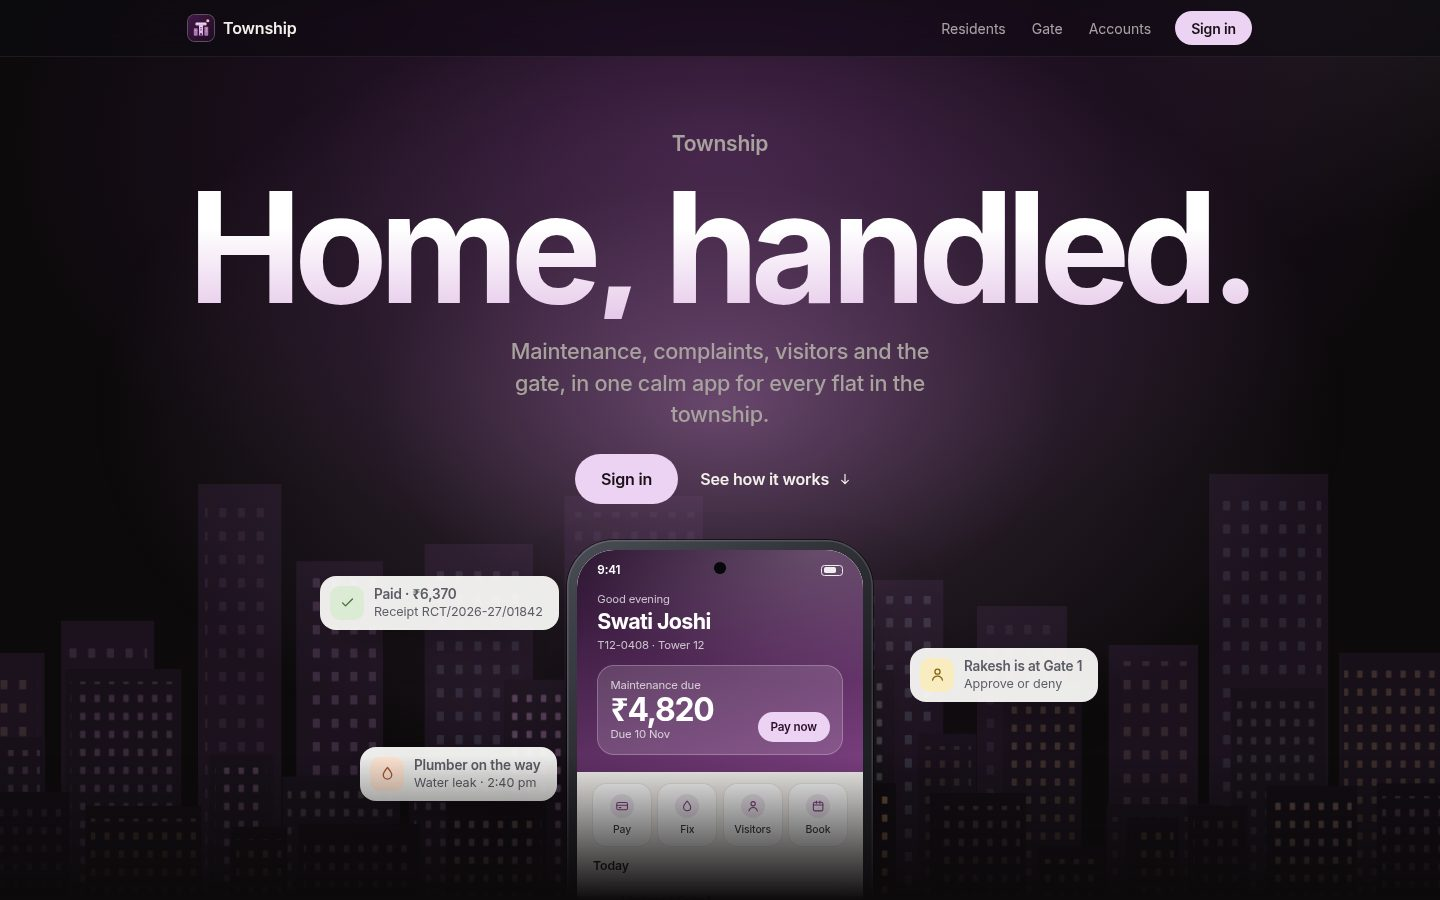
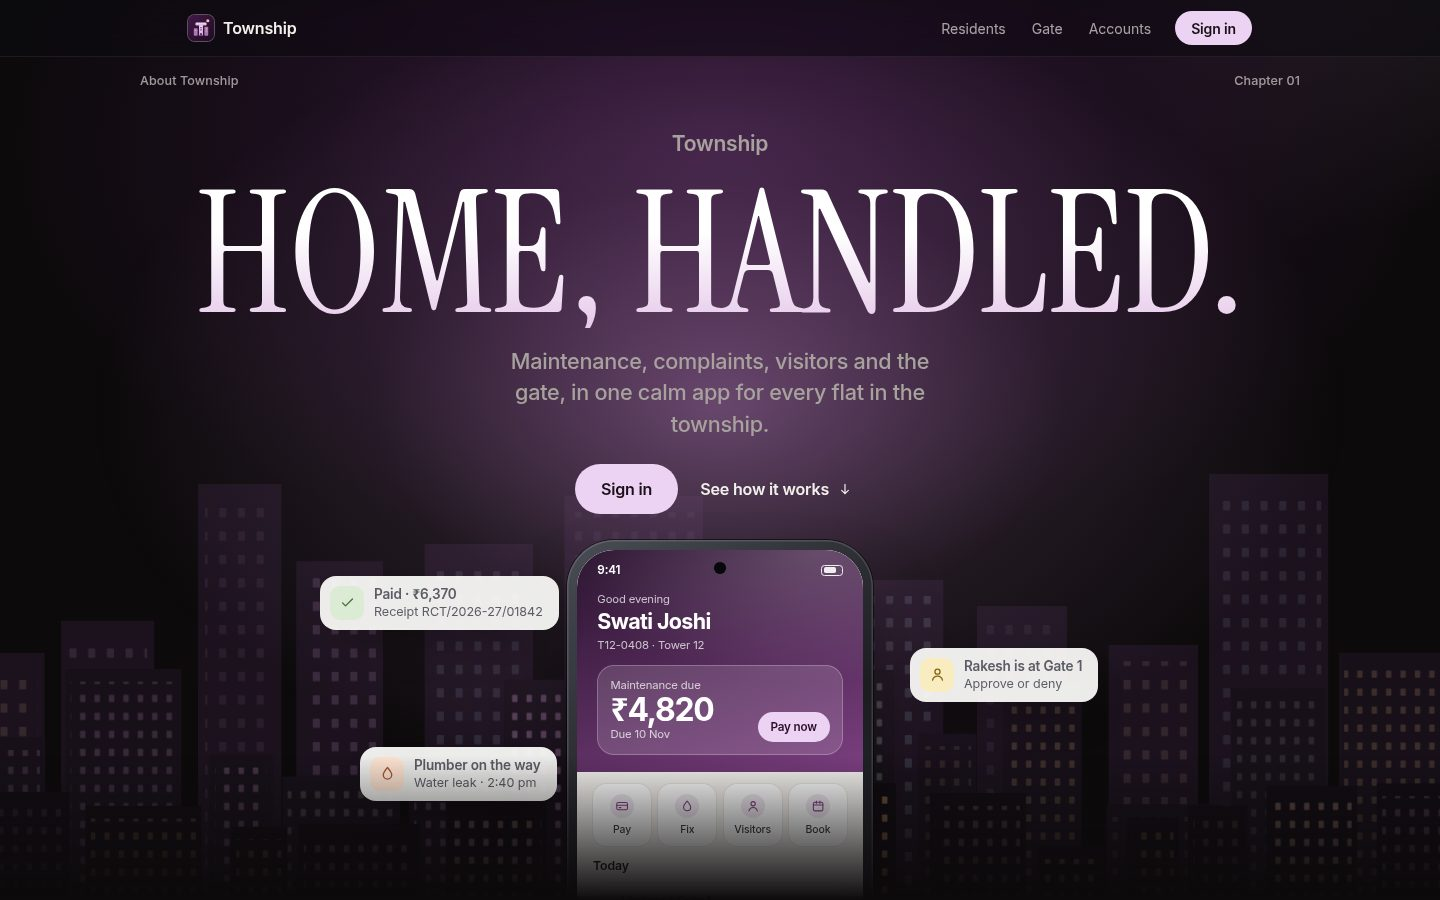
Front page in seven chapters
Inspired by grail-app.com's chapter structure, with Township's own content:
- Each section is a chapter with its own colour (night, lilac, paper,
  espresso, night, butter, black), labelled "About …" and "Chapter 0n" in
  its top corners.
- Chapters arrive over the last one: a rounded sheet that slides up with a
  slight tilt, or (into the numbers) through a circle that opens.
- Headlines in tall serif capitals (Instrument Serif, OFL, bundled so the
  Content Security Policy still allows no third-party requests); giant
  faded figures drift behind the turning phone (₹13,004) and the stats
  (2,400); the ledger paragraph is set in serif.
- A sticky pill with Sign in and Install appears once the hero is gone.
- Feature steps finish animating before the scroll settles, so no line is
  left half-way; the top bar turns light over the lilac chapter.

diff --git a/web/src/landing/landing.css b/web/src/landing/landing.css
@@ -331,3 +331,77 @@
 .lp-nav.on-light .lp-install > button { color: var(--lp-ink); box-shadow: inset 0 0 0 1px var(--lp-line); }
 .lp-nav-in > .lp-btn { white-space: nowrap; }
 @media (max-width: 767px) { .lp-nav-in > .lp-install { margin-left: auto; } .lp-nav-in > .lp-install + .lp-btn { margin-left: 0; } }
+
+/* ==== Chapters ====================================================================
+ * Each section is a chapter with its own colour, labelled in its top corners, and
+ * most arrive over the last one: as a rounded sheet (sliding up with a tilt) or
+ * through an opening circle. Headlines are tall serif capitals; giant faded type
+ * sits behind some chapters. The flow comes from the shared type, the labels and
+ * the sticky pill, so each chapter can look different. */
+.lp {
+  --lp-serif: 'Instrument Serif', 'Iowan Old Style', 'Times New Roman', serif;
+  --ch-lilac: #e9c9f0; --ch-paper: #f7f5f0; --ch-espresso: #2a1d16; --ch-butter: #f1e2b5;
+  --ch-radius: 32px;
+}
+.lp-display, .lp-h, .lp-h2 { font-family: var(--lp-serif); font-weight: 400; text-transform: uppercase; letter-spacing: -0.005em; }
+.lp-display { font-size: clamp(64px, min(12.5vw, 19svh), 196px); line-height: 0.86; }
+.lp-h { font-size: clamp(50px, 7.4vw, 124px); line-height: 0.88; }
+.lp-h2 { font-size: clamp(42px, 5.4vw, 86px); line-height: 0.9; }
+.sw { padding-top: 0.06em; }
+
+.lp-chapter { position: absolute; z-index: 6; top: calc(56px + 16px); left: max(var(--lp-gutter), calc(50% - 580px)); right: max(var(--lp-gutter), calc(50% - 580px)); display: flex; justify-content: space-between; font-size: 12.5px; font-weight: 500; letter-spacing: 0.01em; opacity: 0.62; pointer-events: none; }
+.lp-bigtype { position: absolute; inset: 0; z-index: 0; display: grid; place-items: center; white-space: nowrap; pointer-events: none; font-family: var(--lp-serif); line-height: 0.8; letter-spacing: -0.02em; }
+
+/* 02 · The app: lilac, with the amount due drifting behind the phone */
+.lp-spin { background: var(--ch-lilac); color: var(--lp-ink); }
+.lp-spin::after { display: none; }
+.lp-spin-glow { background: radial-gradient(closest-side, rgba(255, 255, 255, 0.75), rgba(255, 255, 255, 0.18) 60%, transparent); }
+.lp-spin-head .lp-eyebrow { color: #7b3f80; }
+.lp-spin-big { font-size: clamp(160px, 27vw, 440px); color: rgba(123, 63, 128, 0.13); }
+.lp-spin-device { z-index: 1; }
+.lp-cap span { color: #5b4a5e; }
+
+/* 03 · Every day: a white sheet over the lilac */
+.lp-story { background: var(--ch-paper); border-radius: var(--ch-radius) var(--ch-radius) 0 0; margin-top: calc(var(--ch-radius) * -1); z-index: 2; }
+
+/* 04 · In numbers: espresso, opened through a circle */
+.lp-portal-wrap { background: var(--ch-paper); position: relative; z-index: 2; }
+.lp-numbers { position: relative; overflow: hidden; background: radial-gradient(80% 60% at 50% 0%, #3a281e, transparent 70%), var(--ch-espresso); color: #f3ead9; }
+.lp-numbers .lp-lead, .lp-numbers .lp-stat-l, .lp-numbers .lp-stat-v small { color: #c9b8a4; }
+.lp-numbers-big { font-size: clamp(220px, 34vw, 560px); color: rgba(243, 234, 217, 0.05); }
+.lp-numbers .lp-wrap { position: relative; z-index: 1; }
+.lp-stat-v { font-family: var(--lp-serif); font-weight: 400; font-size: clamp(76px, 9vw, 144px); letter-spacing: -0.02em; }
+.lp-numbers .lp-stat.c0 { border-top-color: #e7afe7; } .lp-numbers .lp-stat.c1 { border-top-color: #f7c8a8; } .lp-numbers .lp-stat.c2 { border-top-color: #f4d98a; }
+.lp-numbers .lp-stat.c3 { border-top-color: #b8dcae; } .lp-numbers .lp-stat.c4 { border-top-color: #bcd3f2; } .lp-numbers .lp-stat.c5 { border-top-color: #f3b8c4; }
+
+/* 05 · At the gate: a night sheet */
+.lp-gate { border-radius: var(--ch-radius) var(--ch-radius) 0 0; margin-top: calc(var(--ch-radius) * -1); z-index: 3; }
+
+/* 06 · Trust: a butter sheet, the ledger in serif */
+.lp-ledger { position: relative; z-index: 4; background: var(--ch-butter); color: var(--lp-ink); border-radius: var(--ch-radius) var(--ch-radius) 0 0; margin-top: calc(var(--ch-radius) * -1); padding-top: clamp(130px, 14vw, 190px); }
+.lp-ledger .lp-eyebrow { color: #7b3f80; }
+.lp-ledger-text { font-family: var(--lp-serif); font-weight: 400; font-size: clamp(38px, 5.2vw, 80px); line-height: 1.02; letter-spacing: -0.01em; max-width: 25ch; }
+.lp-ledger-foot div { border-top-color: rgba(24, 24, 27, 0.25) !important; }
+.lp-ledger-foot span { color: #6b5d3f; }
+
+/* 07 · Getting started: black, with the logo */
+.lp-closing { position: relative; z-index: 5; background: radial-gradient(70% 50% at 50% 0%, #2b1430, transparent 70%), #0c0a0b; color: var(--lp-inv); border-radius: var(--ch-radius) var(--ch-radius) 0 0; margin-top: calc(var(--ch-radius) * -1); }
+.lp-closing-logo { display: block; width: 84px; height: 84px; margin: 0 auto 30px; border-radius: 22px; box-shadow: 0 0 0 1px rgba(236, 210, 243, 0.3), 0 30px 60px -18px rgba(214, 150, 222, 0.55); }
+.lp-closing .lp-note { color: var(--lp-inv-2); }
+.lp-role { color: var(--fg); }
+.lp-role span { color: var(--muted); }
+.lp-closing .lp-foot { border-top-color: rgba(255, 255, 255, 0.1); color: var(--lp-inv-2); }
+.lp-closing .lp-foot a:hover { color: var(--lp-inv); }
+
+/* Sticky pill */
+.lp-sticky { position: fixed; left: 50%; bottom: calc(18px + env(safe-area-inset-bottom)); z-index: 55; display: flex; align-items: center; gap: 8px; padding: 6px; border-radius: 999px; background: rgba(250, 250, 248, 0.94); backdrop-filter: blur(14px); -webkit-backdrop-filter: blur(14px); box-shadow: 0 14px 34px -12px rgba(0, 0, 0, 0.4), 0 0 0 1px rgba(0, 0, 0, 0.06); transform: translate(-50%, 160%); opacity: 0; transition: transform 0.55s var(--lp-ease), opacity 0.3s; }
+.lp-sticky.show { transform: translate(-50%, 0); opacity: 1; }
+.lp-sticky img { width: 30px; height: 30px; border-radius: 9px; margin-left: 2px; }
+.lp-sticky .install-btn.icon > button { background: rgba(24, 24, 27, 0.07); color: #18181b; width: 34px; height: 34px; }
+.lp-sticky .install-pop { top: auto; bottom: calc(100% + 10px); }
+@media (prefers-reduced-motion: reduce) { .lp-sticky { transition: opacity 0.2s; } }
+
+.lp-story .lp-h2 { font-size: clamp(40px, 4.4vw, 74px); }
+.lp-story.is-animated .lp-steps { min-height: 400px; }
+.lp-step .lp-h2 { margin-bottom: 10px; }
+@media (max-width: 767px) { .lp-story.is-animated .lp-steps { min-height: 260px; } .lp-story .lp-h2 { font-size: clamp(32px, 9vw, 44px); } .lp-chapter { top: calc(56px + 10px); font-size: 11px; } }

diff --git a/docs/tdd/TDD.html b/docs/tdd/TDD.html
@@ -214,7 +214,7 @@ flowchart TD
 <figure><img src="img/desk-matching.jpg" alt="" style="max-width:62%"><figcaption>A credit whose narration names T10-1707 while its UPI ID is registered to T09-1802. Two strong signals disagree, so it is queued with both flats and their evidence instead of being posted.</figcaption></figure>
 
 <h2>7. UI and design</h2>
-<p>The brief asks for minimal design and every action within two taps. Warm neutrals with one lilac accent for the next action; six soft tints only to tell categories, people and amenities apart; light and dark themes; loading, empty and error states from shared components. Small interactions carry meaning: the dues card opens into what makes up the amount, a tapped month in Bills shows its sum, a waiting visitor pulses on the timeline, and guest codes count down. Animations stop when the phone asks for reduced motion. The logo is a T made from a tower between two shorter ones; the front page (<code>/welcome</code>) is built with GSAP and loads on its own, so the app screens carry none of it. The desk is denser, for a working day, and the committee report leads with the brief's three targets.</p>
+<p>The brief asks for minimal design and every action within two taps. Warm neutrals with one lilac accent for the next action; six soft tints only to tell categories, people and amenities apart; light and dark themes; loading, empty and error states from shared components. Small interactions carry meaning: the dues card opens into what makes up the amount, a tapped month in Bills shows its sum, a waiting visitor pulses on the timeline, and guest codes count down. Animations stop when the phone asks for reduced motion. The logo is a T made from a tower between two shorter ones; the front page (<code>/welcome</code>) tells the product in seven chapters, each with its own colour, that arrive as sheets or through an opening circle; it is built with GSAP and loads on its own, so the app screens carry none of it. The desk is denser, for a working day, and the committee report leads with the brief's three targets.</p>
 <div class="two">
   <figure><img src="img/res-home.jpg" alt=""><figcaption>Resident home: dues first, with the overdue days and interest stated; complaints and visitors one tap away.</figcaption></figure>
   <figure><img src="img/gate.jpg" alt=""><figcaption>Gate tablet with the network down: very large buttons, a dark screen for night, "Offline · saved on tablet", language switch, and the DPDP notice to visitors.</figcaption></figure>

diff --git a/web/src/landing/sections/Story.jsx b/web/src/landing/sections/Story.jsx
@@ -3,6 +3,7 @@ import { gsap, prefersReducedMotion } from '../motion/gsap.js';
 import { useScene } from '../motion/useScene.js';
 import { Phone } from '../components/Devices.jsx';
 import { PayScreen, FixScreen, VisitorScreen, BookScreen } from '../components/screens.jsx';
+import Chapter from '../components/Chapter.jsx';
 
 const STEPS = [
   { tab: 'Pay', title: 'Dues, paid\nbefore dinner.', body: 'See exactly what is owed and why, pay by UPI or card, and keep every receipt in one place. Interest is shown, never hidden.', Screen: PayScreen, glow: '#d58fdf' },
@@ -45,8 +46,9 @@ export default function Story() {
     tl.addLabel('s0', 0);
     for (let i = 1; i < n; i++) {
       tl.to(steps[i - 1], { autoAlpha: 0, y: -36, duration: 0.4 }, i - 0.55)
-        .fromTo(steps[i], { autoAlpha: 0, y: 36 }, { autoAlpha: 1, y: 0, duration: 0.45 }, i - 0.35)
-        .from(steps[i].querySelectorAll('.lp-eyebrow, .lp-line, .lp-lead'), { yPercent: 60, duration: 0.45, stagger: 0.05 }, i - 0.35)
+        // Everything lands before the step's label, so a settled scroll never leaves a line half-way.
+        .fromTo(steps[i], { autoAlpha: 0, y: 36 }, { autoAlpha: 1, y: 0, duration: 0.38 }, i - 0.45)
+        .fromTo(steps[i].querySelectorAll('.lp-eyebrow, .lp-line, .lp-lead'), { yPercent: 60 }, { yPercent: 0, duration: 0.32, stagger: 0.03 }, i - 0.45)
         .to(screens[i - 1], { autoAlpha: 0, scale: 0.94, duration: 0.4 }, i - 0.55)
         .fromTo(screens[i], { autoAlpha: 0, scale: 1.06 }, { autoAlpha: 1, scale: 1, duration: 0.45 }, i - 0.4)
         .to(phone, { rotateY: i % 2 ? -14 : 14, rotateX: 4, duration: 0.3, ease: 'sine.inOut' }, i - 0.55)
@@ -72,6 +74,7 @@ export default function Story() {
 
   return (
     <section className="lp-story" data-nav="light" ref={ref} style={{ '--lp-glow': STEPS[0].glow }} aria-label="What residents can do">
+      <Chapter about="every day" n={3} />
       <div className="lp-story-in">
         <div className="lp-story-stage" aria-hidden="true">
           <div className="lp-story-glow" />

diff --git a/web/src/landing/sections/Spin.jsx b/web/src/landing/sections/Spin.jsx
@@ -6,6 +6,7 @@ import SplitWords from '../components/SplitWords.jsx';
 import ImageSequence from '../components/ImageSequence.jsx';
 import { usePhoneSequence } from '../frames/usePhoneSequence.js';
 import { SEQ_HEIGHT, SEQ_WIDTH } from '../frames/phoneSequence.js';
+import Chapter from '../components/Chapter.jsx';
 
 const CAPTIONS = [
   ['Two taps to pay.', 'UPI or card, with a numbered receipt the moment it clears.'],
@@ -32,7 +33,8 @@ export default function Spin() {
       // of its way before they meet.
       .fromTo(q('.lp-spin-device'), { scale: 0.72, yPercent: 34 }, { scale: 1, yPercent: 0, duration: 2.6, ease: 'power2.inOut' }, 0)
       .to(q('.lp-spin-head'), { autoAlpha: 0, y: -90, scale: 0.94, duration: 1.3, ease: 'power2.in' }, 0.2)
-      .fromTo(q('.lp-spin-glow'), { scale: 0.7, opacity: 0.5 }, { scale: 1.35, opacity: 1, duration: 10, ease: 'none' }, 0);
+      .fromTo(q('.lp-spin-glow'), { scale: 0.7, opacity: 0.5 }, { scale: 1.35, opacity: 1, duration: 10, ease: 'none' }, 0)
+      .fromTo(q('.lp-spin-big'), { xPercent: 12 }, { xPercent: -12, duration: 10, ease: 'none' }, 0);
     q('.lp-cap').forEach((c, i) => {
       const at = 1.8 + i * 2.7;
       tl.fromTo(c, { autoAlpha: 0, y: 40 }, { autoAlpha: 1, y: 0, duration: 0.7 }, at)
@@ -42,8 +44,10 @@ export default function Spin() {
   });
 
   return (
-    <section className="lp-spin" ref={ref}>
+    <section className="lp-spin" data-nav="light" ref={ref}>
       <div className="lp-spin-glow" aria-hidden="true" />
+      <Chapter about="the app" n={2} />
+      <div className="lp-bigtype lp-spin-big" aria-hidden="true">₹13,004</div>
       <div className="lp-spin-head">
         <p className="lp-eyebrow">The resident app</p>
         <SplitWords as="h2" className="lp-h" text={'One app.\nEvery corner of home.'} />

diff --git a/web/src/landing/sections/Numbers.jsx b/web/src/landing/sections/Numbers.jsx
@@ -1,6 +1,7 @@
 import { useRef } from 'react';
 import { useScene } from '../motion/useScene.js';
-import { countUp, fadeUp, parallax, revealWords } from '../motion/effects.js';
+import { countUp, fadeUp, parallax, revealWords, portalIn } from '../motion/effects.js';
+import Chapter from '../components/Chapter.jsx';
 import SplitWords from '../components/SplitWords.jsx';
 
 // Figures from the full-size load test (see the README).
@@ -17,6 +18,8 @@ const fmt = (v, dec = 0) => v.toLocaleString('en-IN', { minimumFractionDigits: d
 export default function Numbers() {
   const ref = useRef(null);
   useScene(ref, ({ el, q, mobile }) => {
+    portalIn(el);
+    parallax(q('.lp-numbers-big'), el);
     revealWords(q('.lp-h'), { trigger: el, start: 'top 75%' });
     fadeUp(q('.lp-numbers-head .lp-lead'), { trigger: el, start: 'top 70%', delay: 0.3 });
     // Children fade in; the stat itself carries the parallax, so they never fight over y.
@@ -25,7 +28,9 @@ export default function Numbers() {
     return countUp(q('.lp-stat-v [data-value]'));
   });
   return (
-    <section className="lp-numbers" data-nav="light" ref={ref} aria-label="In numbers">
+    <section className="lp-numbers" ref={ref} aria-label="In numbers">
+      <Chapter about="scale" n={4} />
+      <div className="lp-bigtype lp-numbers-big" data-speed="-0.2" aria-hidden="true">2,400</div>
       <div className="lp-wrap">
         <div className="lp-numbers-head">
           <SplitWords as="h2" className="lp-h" text={'Built for a township,\nnot a building.'} />

diff --git a/web/src/landing/sections/Ledger.jsx b/web/src/landing/sections/Ledger.jsx
@@ -1,6 +1,7 @@
 import { useRef } from 'react';
 import { useScene } from '../motion/useScene.js';
-import { fadeUp, highlightWords } from '../motion/effects.js';
+import { fadeUp, highlightWords, sheetIn } from '../motion/effects.js';
+import Chapter from '../components/Chapter.jsx';
 import SplitWords from '../components/SplitWords.jsx';
 
 const TEXT = 'Every rupee is a line in the ledger. Lines are never edited, only corrected by new ones. A second person approves every manual decision. Receipts never skip a number. And once the committee signs a month, the database itself will not let anyone change it.';
@@ -9,12 +10,14 @@ const TEXT = 'Every rupee is a line in the ledger. Lines are never edited, only 
 export default function Ledger() {
   const ref = useRef(null);
   useScene(ref, ({ el, q }) => {
+    sheetIn(el, { tilt: -2 });
     fadeUp(q('.lp-eyebrow'), { trigger: el, start: 'top 80%' });
     highlightWords(q('.lp-ledger-text'), { trigger: q('.lp-ledger-text')[0], start: 'top 78%', end: 'bottom 52%' });
     fadeUp(q('.lp-ledger-foot > *'), { trigger: q('.lp-ledger-foot')[0], stagger: 0.12 });
   });
   return (
-    <section className="lp-ledger" ref={ref} aria-label="Accounts">
+    <section className="lp-ledger" data-nav="light" ref={ref} aria-label="Accounts">
+      <Chapter about="trust" n={6} />
       <div className="lp-wrap">
         <p className="lp-eyebrow">Accounts you can trust</p>
         <SplitWords as="p" className="lp-ledger-text" text={TEXT} />

diff --git a/web/src/landing/sections/Gate.jsx b/web/src/landing/sections/Gate.jsx
@@ -1,7 +1,8 @@
 import { useRef } from 'react';
 import { gsap } from '../motion/gsap.js';
 import { useScene } from '../motion/useScene.js';
-import { fadeUp, parallax, revealWords } from '../motion/effects.js';
+import { fadeUp, parallax, revealWords, sheetIn } from '../motion/effects.js';
+import Chapter from '../components/Chapter.jsx';
 import SplitWords from '../components/SplitWords.jsx';
 import Skyline from '../components/Skyline.jsx';
 import { Tablet } from '../components/Devices.jsx';
@@ -12,6 +13,7 @@ import { GateScreen } from '../components/screens.jsx';
 export default function Gate() {
   const ref = useRef(null);
   useScene(ref, ({ el, q }) => {
+    sheetIn(el);
     revealWords(q('.lp-h'), { trigger: el, start: 'top 65%' });
     fadeUp(q('.lp-gate-copy .lp-lead, .lp-gate-facts li'), { trigger: el, start: 'top 55%', delay: 0.3, stagger: 0.08 });
     parallax(q('[data-speed]'), el);
@@ -29,6 +31,7 @@ export default function Gate() {
   return (
     <section className="lp-gate" ref={ref} aria-label="The gate tablet">
       <div className="lp-gate-sky" aria-hidden="true" data-speed="-0.25" />
+      <Chapter about="the gate" n={5} />
       <div className="lp-lamps" aria-hidden="true">
         <i style={{ left: '12%', top: '30%' }} data-speed="0.12" />
         <i style={{ left: '78%', top: '18%' }} data-speed="-0.1" />

diff --git a/web/src/landing/components/StickyCta.jsx b/web/src/landing/components/StickyCta.jsx
@@ -1,0 +1,24 @@
+// A pill fixed to the bottom of the screen once the hero has scrolled away,
+// so signing in (or installing) is always one tap away while reading.
+import { useEffect, useState } from 'react';
+import { Link } from 'react-router-dom';
+import { LOGO } from '../../brand.js';
+import InstallButton from '../../InstallButton.jsx';
+
+export default function StickyCta({ cta }) {
+  const [show, setShow] = useState(false);
+  useEffect(() => {
+    const hero = document.querySelector('.lp-hero');
+    if (!hero || typeof IntersectionObserver === 'undefined') return undefined;
+    const io = new IntersectionObserver(([e]) => setShow(!e.isIntersecting), { threshold: 0.15 });
+    io.observe(hero);
+    return () => io.disconnect();
+  }, []);
+  return (
+    <div className={`lp-sticky ${show ? 'show' : ''}`} aria-hidden={!show}>
+      <img src={LOGO} alt="" />
+      <Link className="lp-btn sm" to={cta.to} tabIndex={show ? 0 : -1}>{cta.label}</Link>
+      <InstallButton variant="icon" className="lp-sticky-install" />
+    </div>
+  );
+}

diff --git a/web/src/landing/sections/Closing.jsx b/web/src/landing/sections/Closing.jsx
@@ -4,6 +4,8 @@ import { useScene } from '../motion/useScene.js';
 import { fadeUp, revealWords } from '../motion/effects.js';
 import SplitWords from '../components/SplitWords.jsx';
 import Icon from '../components/Icon.jsx';
+import { LOGO } from '../../brand.js';
+import Chapter from '../components/Chapter.jsx';
 
 const ROLES = [
   ['Residents', 'Pay, report, approve visitors, book.', '/login'],
@@ -19,8 +21,10 @@ export default function Closing({ cta, demo }) {
     fadeUp(q('.lp-closing-ctas, .lp-role'), { trigger: el, start: 'top 60%', delay: 0.35, stagger: 0.07 });
   });
   return (
-    <section className="lp-closing" data-nav="light" ref={ref}>
+    <section className="lp-closing" ref={ref}>
+      <Chapter about="getting started" n={7} />
       <div className="lp-wrap">
+        <img className="lp-closing-logo" src={LOGO} alt="" />
         <SplitWords as="h2" className="lp-h" text="Your township is ready." />
         <div className="lp-closing-ctas">
           <Link className="lp-btn lg" to={cta.to}>{cta.label}</Link>

diff --git a/web/src/landing/motion/effects.js b/web/src/landing/motion/effects.js
@@ -60,3 +60,21 @@ export function countUp(targets, { start = 'top 86%' } = {}) {
   });
   return () => { tweens.forEach((t) => t.kill()); els.forEach((el, i) => { el.textContent = finals[i]; }); };
 }
+
+// A chapter that arrives like a sheet laid on top of the last one: it rises
+// with a slight tilt and settles flat. Not for pinned sections (a transformed
+// ancestor would break the pin).
+export function sheetIn(el, { tilt = 2.4 } = {}) {
+  return gsap.fromTo(el, { rotate: tilt, yPercent: 7, transformOrigin: '50% 0%' }, {
+    rotate: 0, yPercent: 0, ease: 'none',
+    scrollTrigger: { trigger: el, start: 'top bottom', end: 'top 30%', scrub: true },
+  });
+}
+
+// A chapter revealed through a circle that opens as it scrolls in.
+export function portalIn(el, { at = '50% 55%' } = {}) {
+  return gsap.fromTo(el, { clipPath: `circle(6% at ${at})` }, {
+    clipPath: `circle(150% at ${at})`, ease: 'power1.in',
+    scrollTrigger: { trigger: el, start: 'top bottom', end: 'top top', scrub: true },
+  });
+}

diff --git a/web/src/landing/sections/Hero.jsx b/web/src/landing/sections/Hero.jsx
@@ -9,6 +9,7 @@ import { Phone } from '../components/Devices.jsx';
 import { HomeScreen } from '../components/screens.jsx';
 import Icon from '../components/Icon.jsx';
 import { jumpTo } from '../components/Nav.jsx';
+import Chapter from '../components/Chapter.jsx';
 
 export default function Hero({ cta }) {
   const ref = useRef(null);
@@ -45,6 +46,7 @@ export default function Hero({ cta }) {
         <div className="lp-float f3" data-speed="0.1" aria-hidden="true"><div className="lp-float-in"><i className="tint-peach"><Icon name="fix" /></i><span><b>Plumber on the way</b>Water leak · 2:40 pm</span></div></div>
       </div>
       <div className="lp-hero-fade" aria-hidden="true" />
+      <Chapter about="Township" n={1} />
       <div className="lp-hero-copy">
         <p className="lp-hero-eyebrow">Township</p>
         <SplitWords as="h1" className="lp-display" text="Home, handled." />

diff --git a/web/src/landing/Landing.jsx b/web/src/landing/Landing.jsx
@@ -11,6 +11,8 @@ import Numbers from './sections/Numbers.jsx';
 import Gate from './sections/Gate.jsx';
 import Ledger from './sections/Ledger.jsx';
 import Closing from './sections/Closing.jsx';
+import StickyCta from './components/StickyCta.jsx';
+import '@fontsource/instrument-serif/latin-400.css';
 import './landing.css';
 
 // The public front page. Each section owns its animation (see motion/); this
@@ -39,13 +41,14 @@ export default function Landing() {
         <Spin />
         <span id="residents" className="lp-anchor" />
         <Story />
-        <Numbers />
+        <div className="lp-portal-wrap"><Numbers /></div>
         <span id="gate" className="lp-anchor" />
         <Gate />
         <span id="accounts" className="lp-anchor" />
         <Ledger />
         <Closing cta={cta} demo={demo} />
       </main>
+      <StickyCta cta={cta} />
     </div>
   );
 }
